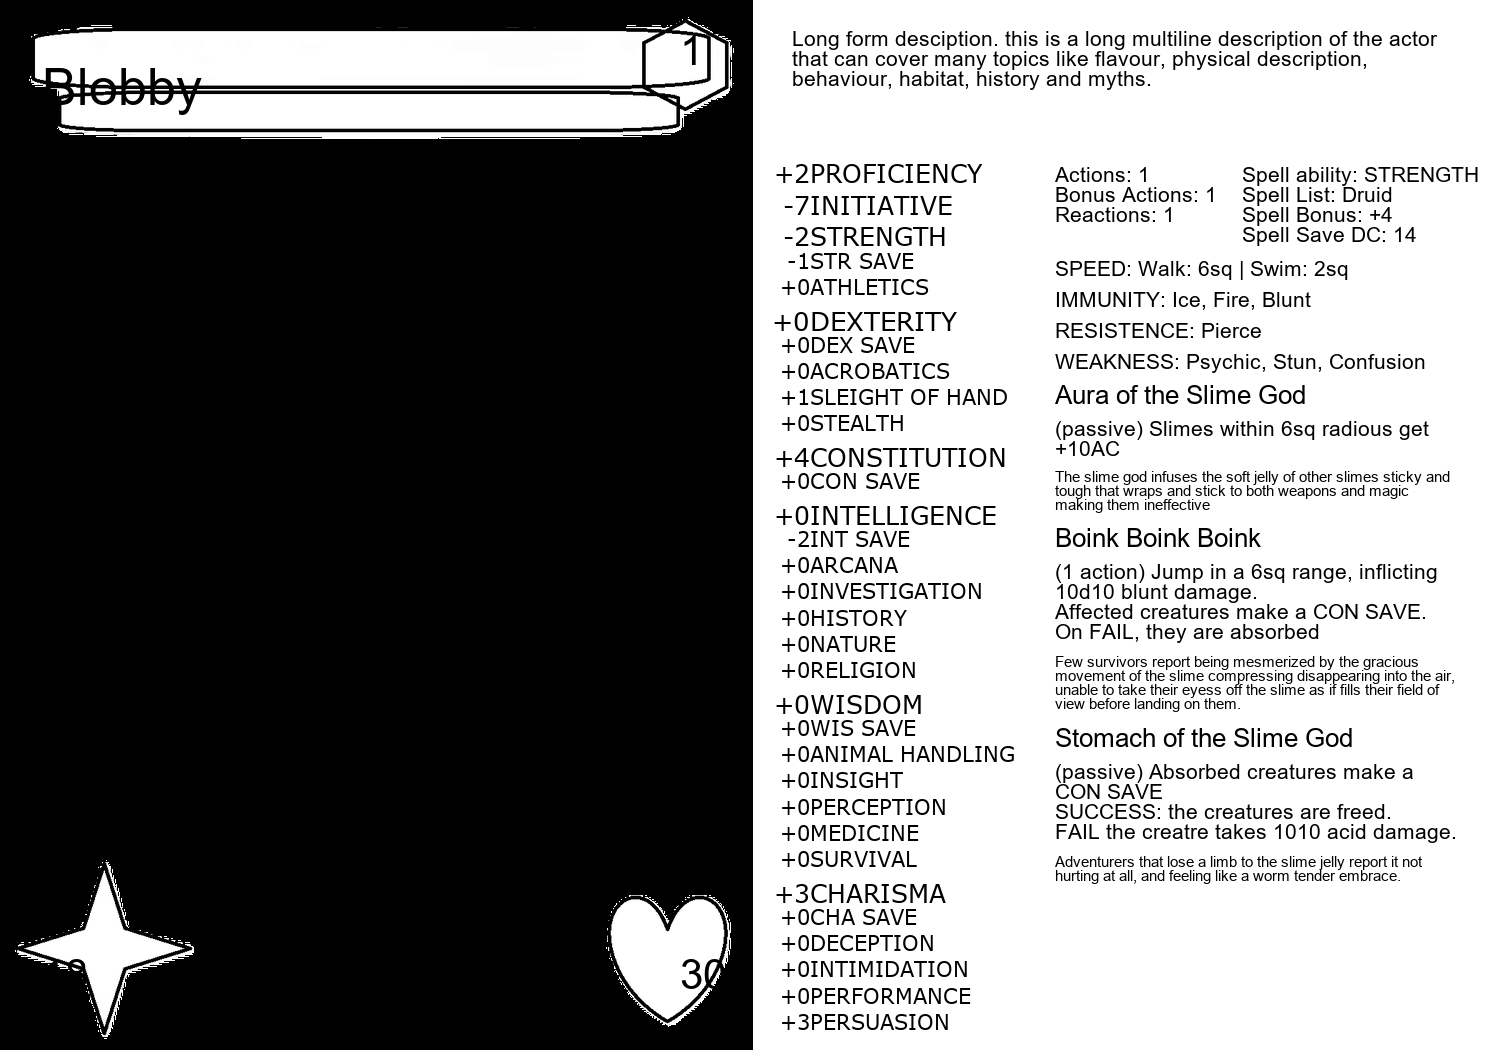
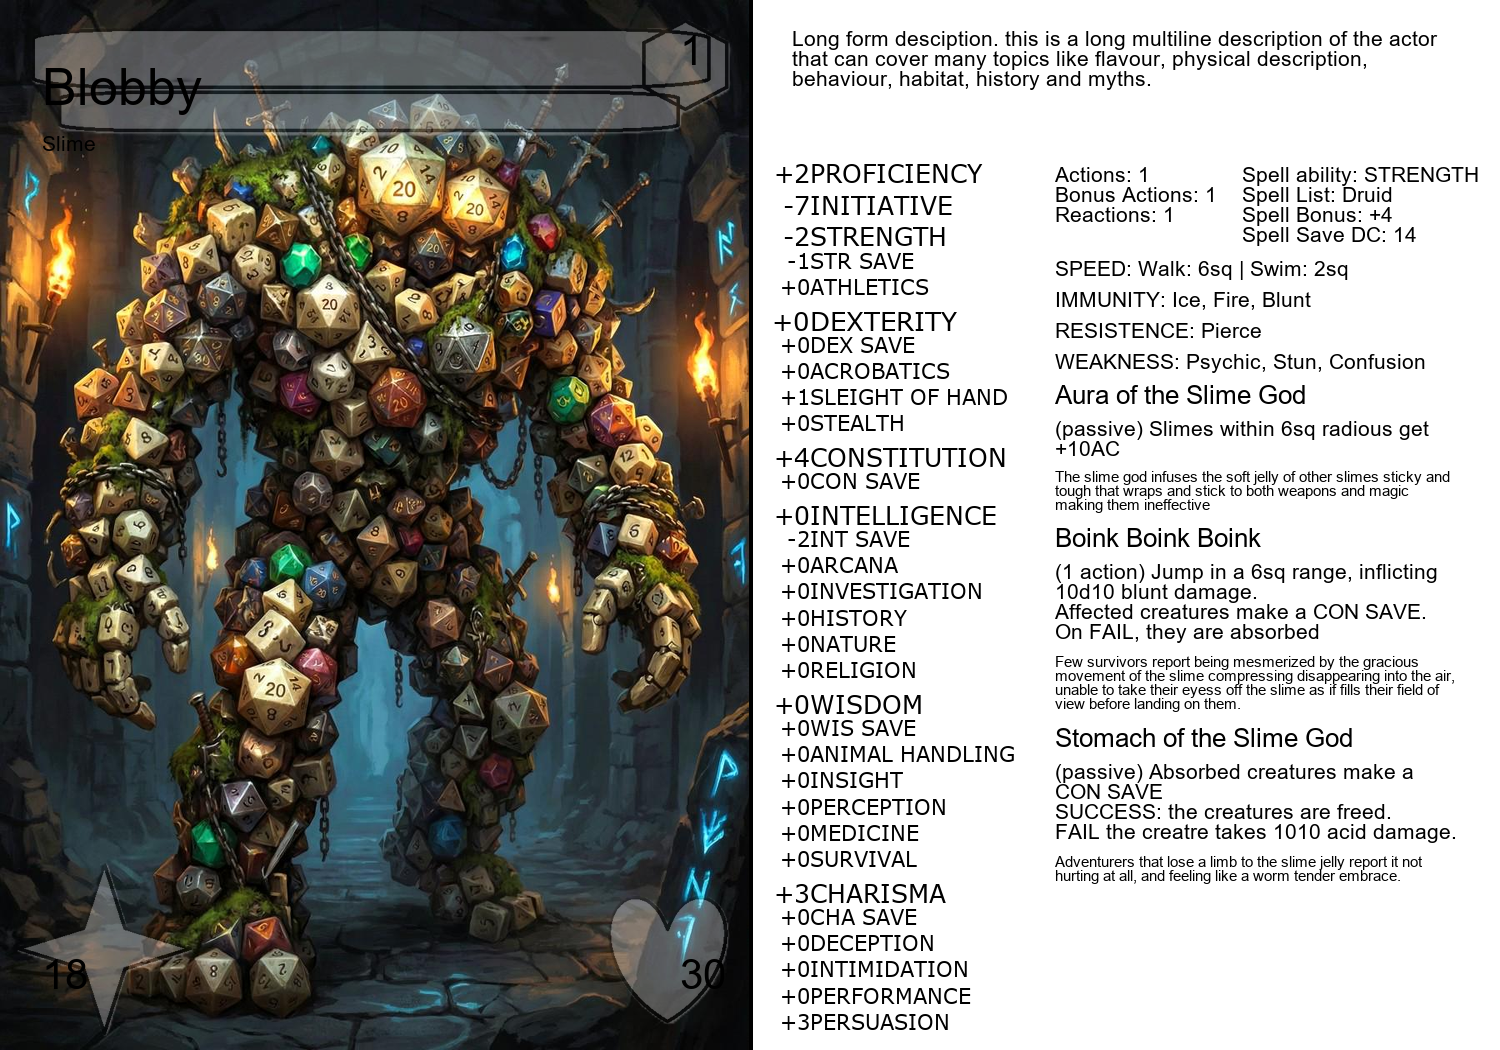
I vibe coded also the opacity of the mask, and it seems to be working now I just need to do the mask for the back and generate amazing artistic masks for the cards also, I need to make it so that it will read a pair image/json and generate an output with the same name

diff --git a/src/lib/cl_generator.py b/src/lib/cl_generator.py
@@ -560,34 +560,38 @@ class Cl_npc_character_sheet_generator:
         #----------------------------------------------------------------------
 
         #create an image for the NPC ilustration
-        g_npc_illustration : St_image = St_image(
+        cl_npc_illustration : St_image = St_image(
             i_w_card_mm = self.g_w_card_width_mm,
             i_h_card_mm = self.g_h_card_height_mm,
             i_dot_per_inch = self.g_n_dots_per_inch
         )
 
         #load the NPC illustration and resize it
-        g_npc_illustration.load_image( i_ls_npc_illustration_path )
+        cl_npc_illustration.load_image( i_ls_npc_illustration_path )
 
         #draw NPC illustration on the front
-        self.g_cl_image_card_front.draw_image( g_npc_illustration, (0,0), t_size_front )
+        self.g_cl_image_card_front.draw_image( cl_npc_illustration, (0,0), t_size_front )
 
         #----------------------------------------------------------------------
         #   DRAW: FRONT MASK
         #----------------------------------------------------------------------
 
         #create an image for the NPC ilustration
-        g_npc_illustration : St_image = St_image(
+        cl_front_mask : St_image = St_image(
             i_w_card_mm = self.g_w_card_width_mm,
             i_h_card_mm = self.g_h_card_height_mm,
             i_dot_per_inch = self.g_n_dots_per_inch
         )
 
         #load the NPC illustration and resize it
-        g_npc_illustration.load_image( i_ls_mask_front_path )
+        cl_front_mask.load_image( i_ls_mask_front_path )
+
+        self.g_cl_image_card_front.compose_image( cl_front_mask, 0.3 )
+
+        #cl_front_mask.g_cl_image.convert('RGBA')
 
         #draw NPC illustration on the front
-        self.g_cl_image_card_front.draw_image( g_npc_illustration, (0,0), t_size_front )
+        #self.g_cl_image_card_front.draw_image( cl_front_mask, (0,0), t_size_front )
 
         #----------------------------------------------------------------------
         #   DRAW: FRONT

diff --git a/src/lib/st_image.py b/src/lib/st_image.py
@@ -197,6 +197,56 @@ class St_image:
                 del self.g_cl_image
                 self.g_cl_image = None
 
+    def apply_global_opacity_to_image(
+        self,
+        i_desired_opacity: float
+    ) -> bool:
+        """
+        Applies a uniform opacity factor to every pixel of an RGBA image.
+
+        Parameters
+        ----------
+        i_original_image : PIL.Image.Image
+            The source image; it must already be in RGBA mode.
+        i_desired_opacity : float
+            Desired global opacity (0.0 – fully transparent, 1.0 – fully opaque).
+
+        Returns
+        -------
+        PIL.Image.Image
+            A new image with the alpha channel scaled by *i_desired_opacity*.
+        """
+        # Retrieve the pixel data as a NumPy array for efficient manipulation
+        ln_pixels = self.g_cl_image.load()
+
+        n_width, n_height = self.g_cl_image.size
+
+        # Iterate over every pixel to modify its alpha component
+        for i_x in range(n_width):
+            for j_y in range(n_height):
+                r_value, g_value, b_value, a_value = ln_pixels[i_x, j_y]
+                # Scale the existing alpha by the desired opacity
+                n_new_alpha: int = int(round(a_value * i_desired_opacity))
+                n_new_alpha = max(0, min(255, n_new_alpha))  # clamp to [0,255]
+                ln_pixels[i_x, j_y] = (r_value, g_value, b_value, n_new_alpha)
+
+        return False #OK
+
+    def compose_image(
+        self, 
+        i_st_mask_with_transparency : "St_image",
+        i_n_opacity : float
+    ) -> bool:
+        
+        i_st_mask_with_transparency.apply_global_opacity_to_image( i_n_opacity )
+
+        self.g_cl_image = PIL.Image.alpha_composite(
+            self.g_cl_image.convert("RGBA"),
+            i_st_mask_with_transparency.g_cl_image.convert("RGBA")
+        )
+
+        return False #OK
+
     def load_image(
         self,
         i_ls_path_parts : list[str]
